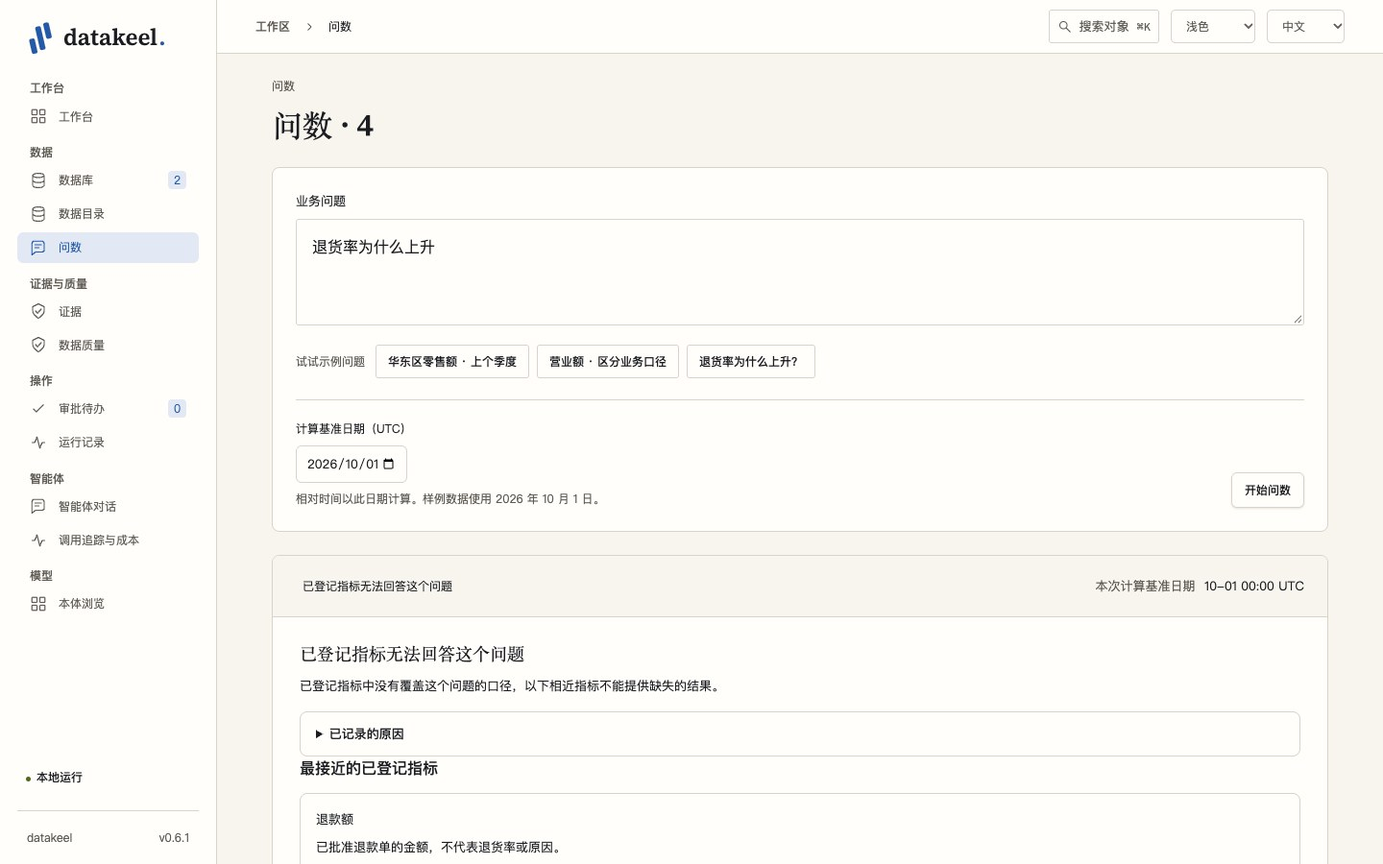
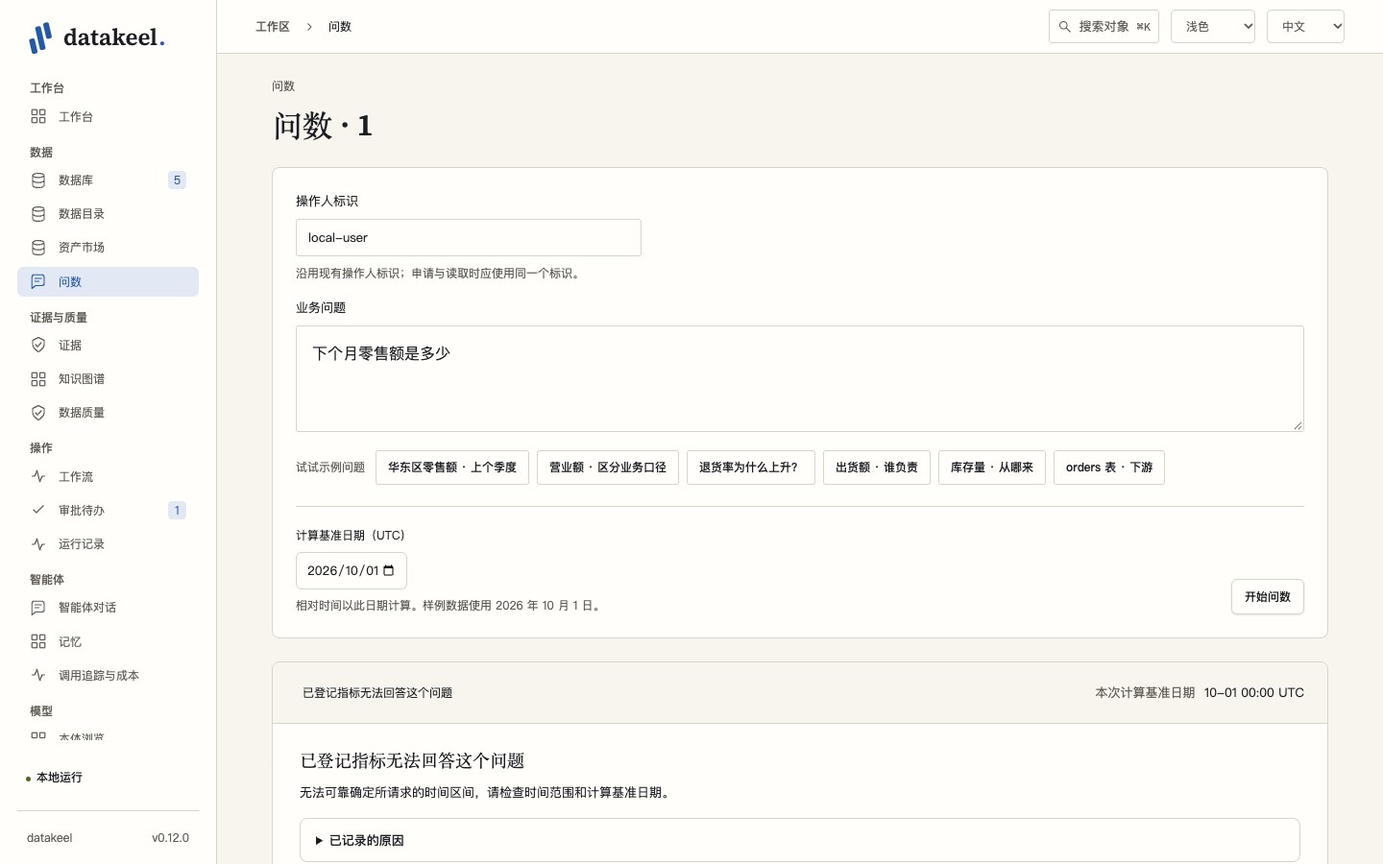
docs(assets): 补充资产导览与授权说明

diff --git a/README.md b/README.md
@@ -63,6 +63,10 @@ The demo starts an API and a worker, creates five file datasets, and imports the
 
 Browse the dataset, switch file versions, download artifacts, inspect a lineage node's event, and read the five quality dimensions and six report chapters. No model is required. `DATAKEEL_LLM_URL` optionally names a chat-completions endpoint; a two-second request limit and failure fallback preserve the complete baseline, with baseline verification appended to generated prose.
 
+The demo also publishes six [data assets](docs/DATA_ASSETS.en.md) across public, internal, request-required and restricted classifications. Open **Asset market** to search, inspect cards, apply with a purpose and expiry, approve through a controlled action, use the grant, and inspect its audit. No grants are issued in advance. Query, export and download scopes are independent; use the same operator identifier when applying and reading (`local-user` for CLI/HTTP defaults; `local` for Agent/MCP).
+
+Reads that include protected resources require grants. In the default demo, an all-lineage export, an unfiltered MCP metric list containing Customer count, and the return-rate question's protected nearby candidates are refused with an application hint. Scope exports to the public dataset or apply for the resources involved. A metric list filtered to `retail` and the Retail revenue question remain available. Follow the [asset tour](docs/DEMO.en.md#data-assets-discover-apply-use-and-audit) for the complete approval flow.
+
 ## Explore the enterprise catalog and ask data
 
 The same demo also creates **Fictional Kitchen Co.**, a generated kitchen-appliance business with four SQLite sources: ERP, CRM, ecommerce and service. Its 20 tables and four views appear as **24 table objects, 128 fields, 13 metrics, 12 dimensions and 32 terms**. The generator writes 51,992 rows and independent answers in `gold.json`; repeated runs preserve the SQLite `.dump` text and gold bytes. SQLite metadata reflection supplies containment and foreign-key references. Field derivation comes only from parsed view definitions or supplied SQL, using `sqlglot` 30.24.0 (MIT). Other file importers are interfaces only in this release.
@@ -80,7 +84,7 @@ uv run datakeel eval-ask --json
 uv run datakeel rebuild-catalog
 ```
 
-Use the same `DATAKEEL_HOME` and database configuration for each command. Outside the demo/evaluation, omitted `--reference-instant` uses the current instant. Time ranges are half-open; at the fixed reference, “近 30 天” means `[2026-09-01, 2026-10-01)`. Unknown concepts such as the return-rate question return `unanswerable` with three nearby metrics. “营业额” matches competing definitions and returns `clarification` with candidates. Neither state contains a numeric answer or executable SQL. Matching is deterministic; the candidate-ID reranker and its fake provider exist only in unit tests, outside demo, golden and `eval-ask`. There is no `ask --provider` option. The compiler alone produces SELECT queries from registered definitions; execution enforces a read-only connection, statement timeout and row cap.
+Use the same `DATAKEEL_HOME` and database configuration for each command. Outside the demo/evaluation, omitted `--reference-instant` uses the current instant. Time ranges are half-open; at the fixed reference, “近 30 天” means `[2026-09-01, 2026-10-01)`. In unrestricted fixtures, including `eval-ask`, unknown concepts such as the return-rate question return `unanswerable` with three nearby metrics. Published access policies also cover those disclosed candidates. “营业额” matches competing definitions and returns `clarification` with candidates. Neither state contains a numeric answer or executable SQL. Matching is deterministic; the candidate-ID reranker and its fake provider exist only in unit tests, outside demo, golden and `eval-ask`. There is no `ask --provider` option. The compiler alone produces SELECT queries from registered definitions; execution enforces a read-only connection, statement timeout and row cap.
 
 ### Metric definitions and controlled changes
 
@@ -407,9 +411,9 @@ uv run datakeel eval-kg --json
 uv run python scripts/mutate.py --output mutation-results.json
 ```
 
-The 40 golden cases retain the twelve original cases covering reads, actions, approvals, loops, budgets, cross-turn references and dry-run, plus the four evidence cases for queries, unknown-state explanations, selected-version creation and deletion approval. Four enterprise cases cover an answer, clarification, refusal and an answer changed by a controlled metric update. Twelve advanced cases cover delegation, canary leaks, injection approval and cross-conversation memory. Four graph cases cover queries, missing-endpoint explanations, automatic replay and external approval with zero conversation executions. Four knowledge-question cases check candidate labels, missing catalog assets, subject ambiguity and rejected claims using actual tool-result JSON. Each executes real local services against isolated generated fixtures with scripted model replies. A second run reports the previous run ID and changes in passed cases, tokens and cost; `--json` emits the full report. Failed cases return a nonzero exit status. `--provider openai` and `--provider anthropic` opt into real paid evaluation and are not run by offline checks.
+The 44 golden cases retain the twelve original cases covering reads, actions, approvals, loops, budgets, cross-turn references and dry-run, plus the four evidence cases for queries, unknown-state explanations, selected-version creation and deletion approval. Four enterprise cases cover an answer, clarification, refusal and an answer changed by a controlled metric update. Twelve advanced cases cover delegation, canary leaks, injection approval and cross-conversation memory. Four graph cases cover queries, missing-endpoint explanations, automatic replay and external approval with zero conversation executions. Four knowledge-question cases check candidate labels, missing catalog assets, subject ambiguity and rejected claims using actual tool-result JSON. Three image cases preserve transcription evidence boundaries, and one asset case checks that an ungranted Agent directs the user to apply without leaking data. Each executes real local services against isolated generated fixtures with scripted model replies. A second run reports the previous run ID and changes in passed cases, tokens and cost; `--json` emits the full report. Failed cases return a nonzero exit status. `--provider openai` and `--provider anthropic` opt into real paid evaluation and are not run by offline checks.
 
-The mutation script requires all 38 mutations to be `KILLED` in temporary source copies. For missing-annotation `unknown → absent`, production assertion validation first rejects the malformed value; an explicitly recorded bypass only in the temporary mutant then lets the real `explain_sample` result reach its golden content check, which must fail. Raising the near-duplicate threshold by four is killed by an actual-image chain test: A–B and B–C have distance 6, A–C has distance 12. Two enterprise mutations test the candidate-ID boundary against model-supplied SQL and reject numeric guesses in an unanswerable answer. These are focused production-boundary tests, not a live model path. Runtime checks also cover signed resume authorization and tool-call idempotency. Workflow and routing checks cover signed workflow resume, the intent score margin, graph cycle detection, and settling the failed attempt before a fallback. Five advanced mutations remove the canary, delegation depth, tool scope, memory hard-delete and per-question memory reinforcement guards. Three graph mutations remove endpoint verification, discard pending-review candidates and omit the model from cache identity. Four knowledge mutations alter candidate review labels, split whole identifiers, route unsupported knowledge questions to metric values, and discard relationships after rejecting the other endpoint association. Structured goldens and focused regressions must catch all four. Each isolated subprocess retains its 300-second limit. Setup failures do not count as a successful mutation kill.
+The mutation script requires all 46 mutations to be `KILLED` in temporary source copies. For missing-annotation `unknown → absent`, production assertion validation first rejects the malformed value; an explicitly recorded bypass only in the temporary mutant then lets the real `explain_sample` result reach its golden content check, which must fail. Raising the near-duplicate threshold by four is killed by an actual-image chain test: A–B and B–C have distance 6, A–C has distance 12. Two enterprise mutations test the candidate-ID boundary against model-supplied SQL and reject numeric guesses in an unanswerable answer. These are focused production-boundary tests, not a live model path. Runtime checks also cover signed resume authorization and tool-call idempotency. Workflow and routing checks cover signed workflow resume, the intent score margin, graph cycle detection, and settling the failed attempt before a fallback. Five advanced mutations remove the canary, delegation depth, tool scope, memory hard-delete and per-question memory reinforcement guards. Three graph mutations remove endpoint verification, discard pending-review candidates and omit the model from cache identity. Four knowledge mutations alter candidate review labels, split whole identifiers, route unsupported knowledge questions to metric values, and discard relationships after rejecting the other endpoint association. Structured goldens and focused regressions must catch all four. Eight asset mutations remove missing-grant, expiry, revocation, exact-scope, tool-cache replay, source-manifest, Agent message replay and version-producer checks. Each isolated subprocess retains its 300-second limit. Setup failures do not count as a successful mutation kill.
 
 `eval-evidence` generates a fresh 1,000-sample corpus in an isolated local process and runs the production extraction DAG. It measures the 15 questions in [questions.yaml](contracts/evidence/questions.yaml): four near-duplicate, four conflict, four corrupt-image and three missing-annotation queries. The baseline uses labels, paths and existing quality facts; the evidence expression adds assertions and direct neighbors. The report includes each query's precision/recall, macro averages, pair metrics, three-state counts, extraction counters and elapsed times. It records `provider=evidence` in the existing `eval_runs` table, with the question file's SHA-256 as `suite_digest`. The temporary corpus is discarded; its report and gold digest remain. `--questions path.yaml` selects an alternative validated question suite.
 

diff --git a/README.zh.md b/README.zh.md
@@ -63,6 +63,10 @@ npm --prefix web run smoke:ui -- http://127.0.0.1:8773
 
 页面可切换文件版本、下载产物、点血缘节点查看事件、查看五维质量及六章报告。报告默认采用规则基线；设置 `DATAKEEL_LLM_URL` 后向指定 chat-completions 地址请求正文，2 秒超时或请求失败时回退基线，生成正文后附基线核验。
 
+默认演示还发布六个[数据资产](docs/DATA_ASSETS.md)，覆盖公开、内部、需申请和受限四种分级。打开「资产市场」搜索、查看卡片，填写用途和期限申请，经受控动作审批后使用并查看审计。演示不会预发授权；查询、导出、下载范围独立，申请与读取使用同一操作人标识（CLI/HTTP 默认 `local-user`，Agent/MCP 为 `local`）。
+
+读取涉及受保护资源时需要授权。默认演示中的全库血缘导出、包含「客户数」的未筛选 MCP 指标列表，以及退货率问句披露的受保护相近指标，都会拒绝并提示申请。可将导出限定到公开数据集，或申请涉及的资源；按 `retail` 筛选指标、查询零售额仍可直接执行。完整审批流程见[资产导览](docs/DEMO.md#数据资产发现申请使用与审计)。
+
 ## 企业目录与可追溯问数
 
 同一个 demo 还生成虚构厨电公司 **Fictional Kitchen Co.**，包含 ERP、CRM、电商、售后四个 SQLite 数据源：20 张表和 4 个视图在目录里对应 **24 个表对象、128 个字段、13 个指标、12 个维度、32 条术语**。生成器写入 51,992 行，并独立计算 `gold.json`；重跑得到相同的 SQLite `.dump` 文本与 gold 字节。SQLite 反射产生包含关系和外键引用；字段派生关系仅来自视图或用户 SQL 的解析，使用 `sqlglot` 30.24.0（MIT）。本版其他文件导入器只保留接口。
@@ -80,7 +84,7 @@ uv run datakeel eval-ask --json
 uv run datakeel rebuild-catalog
 ```
 
-各命令使用相同的 `DATAKEEL_HOME` 和数据库配置。普通 CLI 问数省略 `--reference-instant` 时使用当前时刻；demo 和评测使用固定时刻。时间范围采用半开区间，此基准下“近 30 天”为 `[2026-09-01, 2026-10-01)`。退货率等未登记概念返回 `unanswerable` 和三个相近指标；“营业额”命中冲突口径，返回 `clarification` 和候选。两种状态均不含数值答案或可执行 SQL。匹配流程是确定性的；候选 ID 重排接口与 fake provider 只用于单元测试，不进入 demo、golden 或 `eval-ask`，CLI 没有 `ask --provider` 选项。SQL 只能由编译器从登记指标生成，执行层只接受 SELECT，并强制只读连接、语句超时和行数上限。
+各命令使用相同的 `DATAKEEL_HOME` 和数据库配置。普通 CLI 问数省略 `--reference-instant` 时使用当前时刻；demo 和评测使用固定时刻。时间范围采用半开区间，此基准下“近 30 天”为 `[2026-09-01, 2026-10-01)`。在 `eval-ask` 等未设置资产限制的夹具中，退货率等未登记概念返回 `unanswerable` 和三个相近指标；已上架资产的访问策略也约束这些候选披露。“营业额”命中冲突口径，返回 `clarification` 和候选。两种状态均不含数值答案或可执行 SQL。匹配流程是确定性的；候选 ID 重排接口与 fake provider 只用于单元测试，不进入 demo、golden 或 `eval-ask`，CLI 没有 `ask --provider` 选项。SQL 只能由编译器从登记指标生成，执行层只接受 SELECT，并强制只读连接、语句超时和行数上限。
 
 ### 指标 YAML 与受控变更
 
@@ -392,9 +396,9 @@ uv run datakeel eval-kg --json
 uv run python scripts/mutate.py --output mutation-results.json
 ```
 
-40 条 golden 保留原有 12 条查询、动作、审批、打转、预算、跨轮指代与 dry-run 等场景，以及证据查询、未知状态解释、按查询结果生成版本和删除待审四条；新增问数、澄清、拒答、受控修改指标后答案变化四条企业场景。另外 12 条覆盖委派、泄漏、注入审批及跨会话记忆。另有 4 条图谱场景覆盖查询、缺失端点解释、自动重放和外发签批且对话执行记录为 0。每条用脚本回复驱动真实本机服务与隔离样例。第二次运行显示上次 ID 和通过数、token、成本差值；`--json` 输出完整结果，有失败则退出码非零。`--provider openai` / `--provider anthropic` 会选择真实付费评估，离线门禁不会运行。
+44 条 golden 保留原有 12 条查询、动作、审批、打转、预算、跨轮指代与 dry-run 等场景，以及证据查询、未知状态解释、按查询结果生成版本和删除待审四条；新增问数、澄清、拒答、受控修改指标后答案变化四条企业场景。另外 12 条覆盖委派、泄漏、注入审批及跨会话记忆。另有 4 条图谱场景覆盖查询、缺失端点解释、自动重放和外发签批且对话执行记录为 0。另有 4 条知识问数、3 条图片来源和 1 条无授权资产引导场景；后者要求 Agent 提示申请且不泄露数据。每条用脚本回复驱动真实本机服务与隔离样例。第二次运行显示上次 ID 和通过数、token、成本差值；`--json` 输出完整结果，有失败则退出码非零。`--provider openai` / `--provider anthropic` 会选择真实付费评估，离线门禁不会运行。
 
-变异脚本要求临时源码副本中的 38 处变异全部为 `KILLED`。缺标注 `unknown → absent` 先被生产断言校验拒绝，再仅在临时变异副本显式旁路该校验，让真实 `explain_sample` 结果进入 golden 内容检查并变红。近重复阈值加 4 则由真实图像链测试杀死：A–B、B–C 距离均为 6，A–C 为 12。新增两处企业变异分别验证候选 ID 边界不接受模型 SQL，以及不可答状态不接受猜测数值；它们是生产边界专项测试，不调用真实模型。运行时变异还检查签批恢复授权与工具调用幂等。工作流及路由变异检查工作流签批恢复授权、意图得分分差、图的环检测，以及切换备用模型前对失败尝试结算预算。新增 canary、委派深度、工具越权、记忆硬删及每次用户提问的记忆增强去重五个变异。图谱增加关闭端点核对、丢弃待复核候选、缓存遗漏模型身份三个变异。知识问数另有四处变异，分别篡改候选审阅标签、按下划线拆分标识符、把未支持的知识问句送入数值路线、拒绝另一端关联后丢弃关系，必须由真实工具结果的 golden 或专项回归捕获。每个隔离子进程仍限时 300 秒。环境或初始化失败不计为成功杀死变异。
+变异脚本要求临时源码副本中的 46 处变异全部为 `KILLED`。缺标注 `unknown → absent` 先被生产断言校验拒绝，再仅在临时变异副本显式旁路该校验，让真实 `explain_sample` 结果进入 golden 内容检查并变红。近重复阈值加 4 则由真实图像链测试杀死：A–B、B–C 距离均为 6，A–C 为 12。新增两处企业变异分别验证候选 ID 边界不接受模型 SQL，以及不可答状态不接受猜测数值；它们是生产边界专项测试，不调用真实模型。运行时变异还检查签批恢复授权与工具调用幂等。工作流及路由变异检查工作流签批恢复授权、意图得分分差、图的环检测，以及切换备用模型前对失败尝试结算预算。新增 canary、委派深度、工具越权、记忆硬删及每次用户提问的记忆增强去重五个变异。图谱增加关闭端点核对、丢弃待复核候选、缓存遗漏模型身份三个变异。知识问数另有四处变异，分别篡改候选审阅标签、按下划线拆分标识符、把未支持的知识问句送入数值路线、拒绝另一端关联后丢弃关系，必须由真实工具结果的 golden 或专项回归捕获。资产增加缺失授权、到期、撤销、精确范围、工具缓存重放、来源清单、Agent 消息重放和版本来源八处守卫变异。每个隔离子进程仍限时 300 秒。环境或初始化失败不计为成功杀死变异。
 
 `eval-evidence` 在隔离的本机进程中新生成 1,000 个样本，运行生产抽取 DAG，再执行 [questions.yaml](contracts/evidence/questions.yaml) 的 15 题：近重复 4 题、冲突 4 题、损坏 4 题、无标注 3 题。baseline 只用标签、路径和已有质量事实，with_evidence 加入断言与直接近重复关系。报告包含每题 precision/recall、宏平均、pair 指标、三态计数、抽取计数与耗时，复用 `eval_runs` 表，`provider=evidence`，`suite_digest` 是题集文件 SHA-256。临时样例随评测结束清理，保留报告和 gold 摘要；`--questions path.yaml` 可指定另一份通过校验的题集。
 

diff --git a/docs/DATA_ASSETS.en.md b/docs/DATA_ASSETS.en.md
@@ -1,0 +1,39 @@
+# Publishing and using data assets
+
+[中文](DATA_ASSETS.md)
+
+A data asset packages an existing dataset (optionally pinned to a version), catalog table or semantic metric. Its card holds bilingual names, business definition, owner, classification, tags, synonyms, scenarios, instructions and a manually sanitized sample. Keep private source data out of published card text. Creation, editing, publication and withdrawal retain immutable revisions. An existing card cannot be retargeted.
+
+The asset market supports name, synonym, tag and owner searches, classification and tag filters, and deterministic sorting. Details aggregate quality and its trend, upstream/downstream lineage, source freshness, related metrics, uses and users. For multiple sources, quality uses the lowest measured source score. The trend starts once all sources with quality evidence have observations, then updates at source-version timestamps. Unknown sources receive no invented score. Missing evidence is shown as unavailable; empty release and standards extensions stay hidden. Withdrawn cards disappear from the default market but retain their underlying access policy. Drafts do not establish read policies.
+
+All card changes prepare ordinary controlled action plans and require explicit execution after review; reversible operations keep the existing automatic approval policy. An application declares purpose, query/export/download scopes and an aware expiry. Approving or rejecting an application and revoking a grant require separate human-approved controlled actions. A grant binds its subject, asset, exact scopes, creation/expiry times and revocation status. Expiry is evaluated on every read without a cleanup job. If several protected cards cover one accessed resource, every policy must authorize it.
+
+Operator identifiers are local attribution, not authentication. Web questions default to `local-user` and expose an operator field. Agent and MCP use the existing `local` actor, overriding nested question parameters. Apply as the same operator used for reading. HTTP downloads, exports, saved-answer replay and evidence reads accept `X-Datakeel-Actor`, defaulting to `local-user`. This service does not provide an identity boundary for untrusted remote users.
+
+Public and internal cards allow reads with usage audit; request and restricted cards require a current grant for the required scope. Questions check the resolved metric and compiled table/column dependencies before SQL execution. Native tools, HTTP and controlled exports, and downloads share one guard. Registered lineage, manifests and catalog ownership resolve derived resources to underlying policies. Unversioned reads conservatively match all protected versions; exact versions preserve version boundaries. Protecting a metric does not automatically protect unrelated reads that do not use it.
+
+Evidence candidates, graph queries, relation explanations, frozen source text, and metadata in file/version listings use query scope and the `ask` audit entry. Corrected image pixels use download scope and the `download` entry. Source-bearing action previews, saved plans and receipts also check current authorization. Export plans use export scope; other plans use query scope. Collections return only currently readable plans while retaining stored history. Controlled-action reads keep the existing `local` operator default and accept the same HTTP actor header. Nested Agent/MCP source reads only check authorization; the outer tool records one successful use per matched asset.
+
+Saved answers, tool caches, delegated caches and Agent message idempotency replays check current authorization again. After revocation, provider requests and public conversation/memory reads exclude inaccessible historical tool results, derived replies and events; original user speech remains. Memory use stores resource attribution without memory text, so hard deletion of the memory entry does not remove the authorization basis for old derived replies. Original stored history and append-only audit remain intact; user-authored global memory without provenance has no reliable asset identity to infer.
+
+Audit contains operator, asset, actual entry, scope, UTC timestamp and grant ID; unrestricted uses without a grant have a null grant ID. Query audit by asset or person in the detail and global audit views. SQLite and PostgreSQL triggers reject updates and deletes of usage, card revisions and application/grant decision history. Market metrics describe observed use and lineage, without subjective business valuation.
+
+[`contracts/assets/ranking.yaml`](../contracts/assets/ranking.yaml) defines ranking. Default popularity is uses + 2 × users + downstream dependencies, descending; ties use source update time descending and asset ID ascending. Freshness sorts age ascending, quality sorts score descending, downstream sorts count descending, and name sorts case-insensitively ascending. Unknown values sort last; all share the same stable ties. This release uses the fixed default contract and does not expose custom weight configuration. Invalid contracts fail explicitly. Card copy edits do not reset source freshness.
+
+Inspect `/api/docs` for schemas. The market and detail routes are `/api/data-assets` and `/api/data-assets/{id}`. Submit with `POST /api/data-assets/{id}/applications`; query `/applications`, `/grants`, `/audit`, card `/history` and `/control-history`. The six controlled actions are `create_data_asset`, `update_data_asset`, `publish_data_asset`, `withdraw_data_asset`, `decide_asset_application` and `revoke_asset_grant`, using the existing prepare, approve and execute endpoints.
+
+CLI commands use the same models and service:
+
+```sh
+uv run datakeel data-assets list --search Shipment
+uv run datakeel data-assets show ASSET_ID
+uv run datakeel data-assets prepare create_data_asset definition.json
+uv run datakeel data-assets execute PLAN_ID --digest PLAN_DIGEST
+uv run datakeel data-assets apply application.json --applicant local
+uv run datakeel data-assets prepare decide_asset_application decision.json
+uv run datakeel data-assets approve PLAN_ID --digest PLAN_DIGEST
+uv run datakeel data-assets execute PLAN_ID --digest PLAN_DIGEST
+uv run datakeel data-assets audit --actor local
+```
+
+`definition.json` contains `{"definition":{"target":{"asset_type":"metric","asset_id":"shipment_amount"},"name":"Shipment amount","owner":"Data owner","classification":"request"}}`. An application JSON contains `asset_id`, `purpose`, `scopes:["query"]`, and a future timezone-aware `expires_at`. A decision contains `application_id`, `approve:true`, and an optional reason. See the [demo tour](DEMO.en.md) for the complete flow.

diff --git a/docs/DATA_ASSETS.md b/docs/DATA_ASSETS.md
@@ -1,0 +1,39 @@
+# 数据资产上架与使用
+
+[English](DATA_ASSETS.en.md)
+
+数据资产引用已有数据集（可固定版本）、目录表或语义指标。卡片保存中英文名称、业务定义、负责人、四种分级、标签、同义词、场景、使用说明及手动脱敏样例。不要在公开卡片填写原始私密数据。草稿、上架和下架均保留完整修订历史；修改已创建资产不能换绑底层对象。
+
+在「资产市场」搜索名称、同义词、标签或负责人，按分级或标签筛选，进入详情查看质量趋势、上下游、来源更新时间、相关指标、使用次数和人数。多来源资产的质量分取有测量依据的来源最低分；趋势在所有有质量证据的来源均有观测后，按来源版本时间更新。未知来源不编造质量分。质量没有来源证据时显示暂无数据；版本发布和标准覆盖率扩展位为空时隐藏。下架使卡片退出默认市场，不解除已建立的底层访问策略。草稿尚未建立读取策略。
+
+创建、编辑、上架、下架通过既有受控动作准备计划，审阅后确认执行；可逆操作沿用自动批准规则。申请人填写用途、查询/导出/下载范围和到期时间。批准或拒绝申请、撤销授权必须另行准备动作，经人工审批后显式执行。操作人、资产、范围、起止时间和撤销状态共同决定授权是否有效；到期不需要后台清理任务。多个资产引用同一受保护资源时须分别获得授权。
+
+身份沿用本地操作人标识，这不是认证系统。Web 问数可以选择操作人，默认 `local-user`；Agent 与 MCP 固定为既有 `local` 操作人，忽略工具参数中试图改写身份的 `actor`。申请应使用读取时的同一标识。HTTP 下载、导出、保存答案重放和证据阅读可用 `X-Datakeel-Actor` 传递该标识，默认 `local-user`。不要将服务直接作为面向不可信用户的身份认证边界。
+
+公开和内部资产允许读取并记录使用；需申请和受限资产要求当前有效且包含所需范围的授权。问数在执行 SQL 前检查指标及实际表列依赖；工具、HTTP 导出、受控导出和文件下载复用同一服务守卫。按已登记的血缘、manifest、目录父子关系解析派生资源，防止绕过底层数据集策略。未固定版本的读取保守匹配该资源全部受控版本；精确固定版本遵守版本策略。仅登记指标不会自动限制不读取该指标的其它独立资源。
+
+证据候选、图谱、关系解释、冻结原文和文件/版本清单中的元数据属于查询范围，使用 `ask` 审计入口；原始校正图片属于下载范围，使用 `download` 入口。含来源数据的动作预览、保存计划及回执重读也检查当前权限，导出计划使用导出范围，其它计划使用查询范围；集合视图仅返回当前可读的计划，不改写原历史。控制动作读取沿用原 `local` 操作人默认值，也可通过上述 HTTP 标头指定读取人。Agent/MCP 的内部来源读取只检查权限，最外层工具每次成功读取按匹配资产各记一条审计。
+
+保存答案、工具缓存、委派缓存和同一请求编号的 Agent 消息重放均重新检查当前授权。授权撤销后，新模型请求及会话/记忆的公开读取不再返回失权的旧工具结果、派生回复和事件；用户话语仍保留。记忆取用保存无原文的资源归属快照，避免后续硬删除记忆条目后丢失旧派生回复的授权依据。原始存储历史和只增审计不被改写；用户主动写入且没有来源归属的全局记忆无法反推出数据资产归属。
+
+使用审计保存操作人、资产、实际入口、范围、UTC 时间和授权编号；公开/内部无授权读取的编号为空。可以在详情页或全局审计按资产和人查询。SQLite 和 PostgreSQL 数据库触发器拒绝修改或删除使用审计、资产修订历史和申请/授权决定历史。市场热度只来自客观使用和血缘指标，不评价业务价值。
+
+排序合同为 [`contracts/assets/ranking.yaml`](../contracts/assets/ranking.yaml)。默认热度分数为使用次数 + 2 × 使用人数 + 下游依赖数，降序；同分依次按来源更新时间降序、资产编号升序。其它排序为新鲜度年龄升序、质量分降序、下游数降序、名称不区分大小写升序，未知值排后，同样稳定打破平局。本版本使用固定的默认合同，不提供自定义权重配置；合同异常直接报错，不静默退回。质量、趋势和新鲜度来自底层事实，卡片文字修改不会重置新鲜度。
+
+API 可在 `/api/docs` 查看。市场与详情是 `/api/data-assets`、`/api/data-assets/{id}`，申请是 `POST /api/data-assets/{id}/applications`，申请/授权/审计分别为 `/applications`、`/grants`、`/audit` 子路径。六个动作名为 `create_data_asset`、`update_data_asset`、`publish_data_asset`、`withdraw_data_asset`、`decide_asset_application`、`revoke_asset_grant`，沿用 `/api/actions/{action}/prepare`、`/api/approvals/{plan_id}`、`/api/actions/{plan_id}/execute`。
+
+CLI 使用相同模型和服务，例如：
+
+```sh
+uv run datakeel data-assets list --search 出货额
+uv run datakeel data-assets show ASSET_ID
+uv run datakeel data-assets prepare create_data_asset definition.json
+uv run datakeel data-assets execute PLAN_ID --digest PLAN_DIGEST
+uv run datakeel data-assets apply application.json --applicant local
+uv run datakeel data-assets prepare decide_asset_application decision.json
+uv run datakeel data-assets approve PLAN_ID --digest PLAN_DIGEST
+uv run datakeel data-assets execute PLAN_ID --digest PLAN_DIGEST
+uv run datakeel data-assets audit --actor local
+```
+
+`definition.json` 包含 `{"definition":{"target":{"asset_type":"metric","asset_id":"shipment_amount"},"name":"出货额","owner":"数据负责人","classification":"request"}}`。`application.json` 包含 `asset_id`、`purpose`、`scopes:["query"]`、未来的带时区 `expires_at`；`decision.json` 包含 `application_id`、`approve:true`，可附审批理由。拒绝和撤销同样保留决定历史。完整示例见[演示导览](DEMO.md)。

diff --git a/docs/DEMO.en.md b/docs/DEMO.en.md
@@ -94,13 +94,13 @@ Open Ask (问数), keep the demo reference date `2026-10-01`, and try three ques
 
 1. Ask `上个季度华东区零售额是多少` (last quarter's East China retail revenue), then submit with 开始问数. The answer is `4,979,475`, with metric version 1, source references, filters, and query evidence.
 2. Ask `上个季度营业额是多少` (last quarter's turnover). More than one business definition matches, so the page presents alternatives before calculating. Select a candidate to continue.
-3. Reopen Ask and enter `退货率为什么上升` (why the return rate increased). The registered catalog does not support this explanation. The page reports that it cannot answer and offers nearby metrics.
+3. Reopen Ask and enter `下个月零售额是多少` (retail revenue next month). The time parser does not support this interval. The page reports that it cannot answer, preserves the registered definition, and executes no query. Unknown concepts such as return rate may suggest protected metrics; those disclosures require an approved grant.
 
 ![An answer with traceable sources and metric definition](images/demo/08-ask-answer.jpg)
 
 ![An ambiguous business term requires clarification](images/demo/09-ask-clarification.jpg)
 
-![An unsupported question receives an explicit unanswerable result](images/demo/10-ask-unanswerable.jpg)
+![An unsupported time interval receives an explicit unanswerable result](images/demo/10-ask-unanswerable.jpg)
 
 ## 6. Change a metric, then restore its definition (2 minutes)
 
@@ -190,3 +190,16 @@ The script writes 20 JPEG screenshots at `1440 × 900` to `docs/images/demo/`, e
 After demo initialization, open Ask data and select the owner, upstream or downstream examples, then enter `shipments 表从哪来？` or `营业额谁负责？` for further questions. The first separates the registered supply-chain role from the candidate document claim about 周岩; the second marks `erp_raw_shipments` as missing from the catalog; the third asks you to choose 销售额 or 零售额.
 
 演示初始化后，在问数页点击负责人例句并作答，再手动输入 shipments 上游、营业额负责人两个问题。第一题把系统角色和文档中周岩的说法分开展示；第二题标明原始表「目录里没有」；第三题请用户选择歧义指标。点击文档说法进入原文关系抽屉。切到知识图谱，选择「企业文档 · Enterprise documents」，打开实体的「对应资产」并接受或拒绝关联。审阅后重问可以看到状态变化；重关联、同版本重抽取仍保留人审。全部来自六篇虚构文档的离线录制，不需要模型密钥。
+
+## Data assets: discover, apply, use and audit
+
+The default demo publishes six fictional enterprise assets through controlled actions, covering datasets, tables, metrics and all four classifications. It does not issue hidden grants.
+
+1. Open **Asset market**, search `Shipment`, filter **Request access** and the `enterprise` tag, and open the shipment amount card. Inspect its definition, sanitized sample, quality evidence, lineage and related metrics.
+2. Apply as operator `local`, enter a purpose such as quarterly analysis, select query scope and a future expiry. The request shows **Pending**.
+3. Choose **Approve application**, review and approve the plan, then explicitly execute it. The grant shows its subject, scope, expiry and ID. Approving a plan alone does not create a grant.
+4. Open **Ask data**, use operator `local`, ask `上个季度华东区出货额是多少` with reference instant `2026-10-01T00:00:00Z`, and inspect the registered metric's real read-only result. An ungranted operator is refused and directed to apply.
+5. Return to the card's usage audit, filter `local`, and verify the `ask` entry and grant ID. The global person filter searches usage across assets.
+6. Revoke the grant through another reviewed, approved and executed plan. New questions and old-answer replay now refuse access. Expiry has the same effect without a background job; earlier audit remains.
+
+**Create asset draft** packages an existing object; publication, edits and withdrawal retain all revisions. See [Data assets](DATA_ASSETS.en.md) for configuration and API/CLI details.

diff --git a/docs/DEMO.md b/docs/DEMO.md
@@ -94,13 +94,13 @@ PY
 
 1. 输入「上个季度华东区零售额是多少」，点击「开始问数」。得到 `4,979,475`，同时显示指标版本 1、来源、过滤口径和查询证据。
 2. 改问「上个季度营业额是多少」。营业额对应不止一种定义，页面先列出候选口径，不给猜测数字。点击一个候选后才继续回答。
-3. 重新打开「问数」，输入「退货率为什么上升」。当前目录缺少回答依据，页面明确显示无法回答，并给出相近指标。
+3. 重新打开「问数」，输入「下个月零售额是多少」。当前时间解析器不支持这个时间条件，页面明确显示无法回答，并保留登记口径，不执行查询。退货率等未登记概念可能返回受保护的候选指标，需要先申请后才能披露。
 
 ![可追溯的问数答复](images/demo/08-ask-answer.jpg)
 
 ![含糊问题先澄清业务口径](images/demo/09-ask-clarification.jpg)
 
-![超出已注册数据与定义范围的问题明确无法回答](images/demo/10-ask-unanswerable.jpg)
+![时间条件不受支持时明确无法回答](images/demo/10-ask-unanswerable.jpg)
 
 ## 6. 修改指标，再回滚定义（约 2 分钟）
 
@@ -190,3 +190,16 @@ npm --prefix web run smoke:tour -- http://127.0.0.1:8773
 After demo initialization, open Ask data and select the owner, upstream or downstream examples, then enter `shipments 表从哪来？` or `营业额谁负责？` for further questions. The first separates the registered supply-chain role from the candidate document claim about 周岩; the second marks `erp_raw_shipments` as missing from the catalog; the third asks you to choose 销售额 or 零售额.
 
 演示初始化后，在问数页点击负责人例句并作答，再手动输入 shipments 上游、营业额负责人两个问题。第一题把系统角色和文档中周岩的说法分开展示；第二题标明原始表「目录里没有」；第三题请用户选择歧义指标。点击文档说法进入原文关系抽屉。切到知识图谱，选择「企业文档 · Enterprise documents」，打开实体的「对应资产」并接受或拒绝关联。审阅后重问可以看到状态变化；重关联、同版本重抽取仍保留人审。全部来自六篇虚构文档的离线录制，不需要模型密钥。
+
+## 数据资产：发现、申请、使用与审计
+
+默认 demo 通过受控动作发布六个虚构企业资产，覆盖数据集、表、指标与公开/内部/需申请/受限四种分级，不预发授权。
+
+1. 打开「资产市场」，搜索「出货额」或 `Shipment`，按「需申请」与 `enterprise` 标签筛选。进入卡片，查看业务定义、脱敏样例、质量来源、上下游和相关指标。
+2. 填写操作人 `local`、用途「季度经营分析」、查询范围和未来到期时间，点击「提交申请」。申请列表显示「待审批」。
+3. 点击「批准申请」，审阅计划，批准后「确认执行」。授权记录显示主体、查询范围、期限及授权编号。仅批准计划而不执行不会产生授权。
+4. 点击「去问数」，确认操作人 `local`，输入「上个季度华东区出货额是多少」，时间基准用 `2026-10-01T00:00:00Z`。拿到登记指标的实际只读查询结果；切换为无授权的操作人会被拒绝并提示申请。
+5. 回到资产详情查看「使用审计」，按 `local` 筛选，核对 `ask` 入口和授权编号；全局「按人查看全部资产审计」可跨资产查询。
+6. 「撤销授权」同样经过计划审批和确认执行。重新问数及重放旧答案都会拒绝。到期也自动失效，无需后台任务。原有审计保留。
+
+「创建资产草稿」可引用既有对象，审阅并执行后上架；编辑或下架也保留修订历史。配置与 API/CLI 详见[数据资产说明](DATA_ASSETS.md)。
